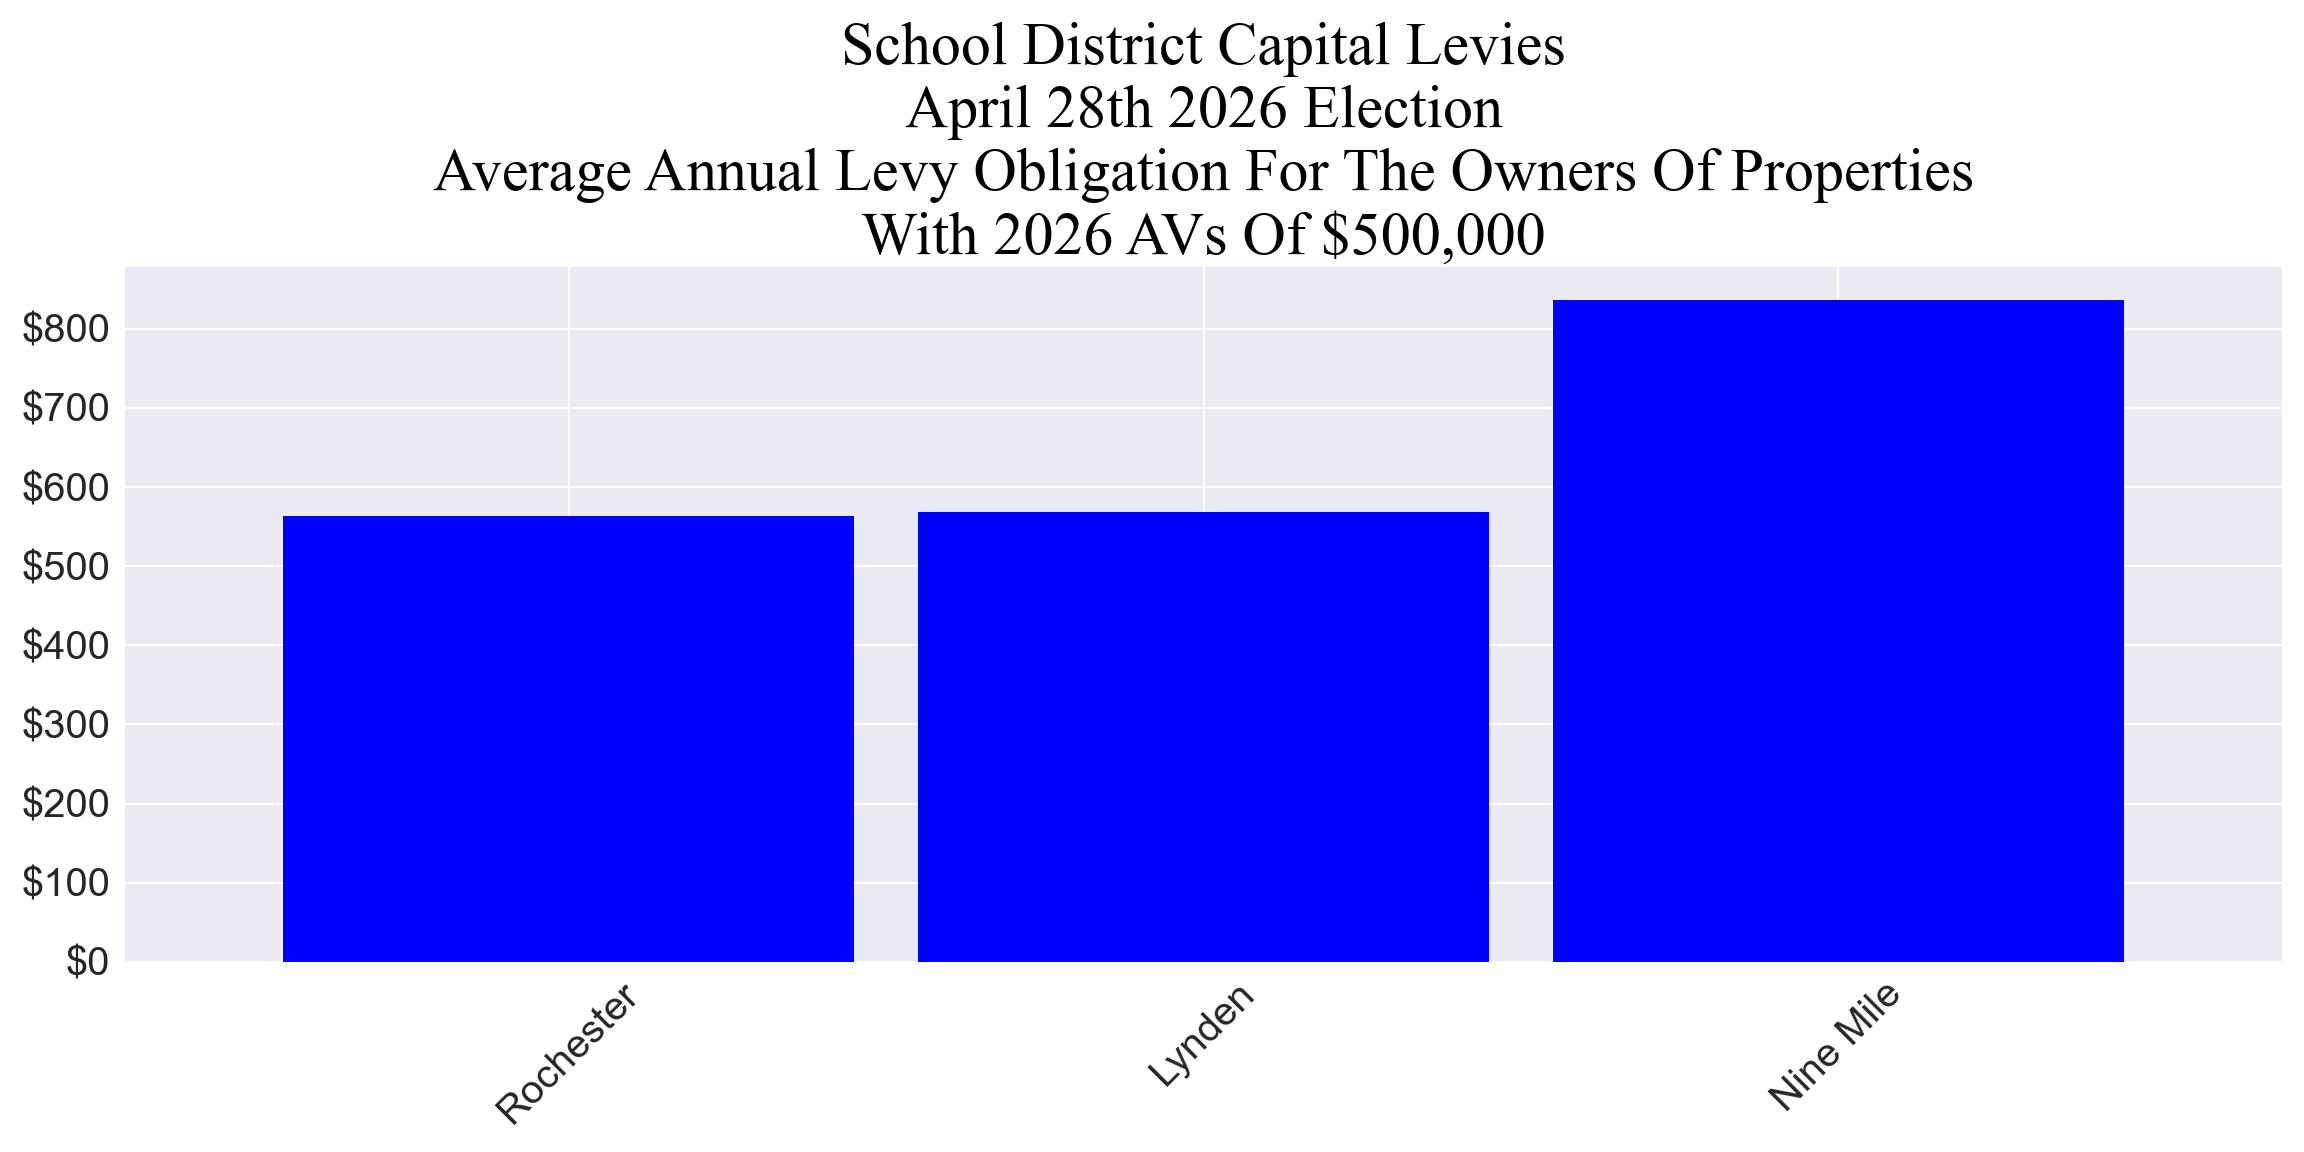
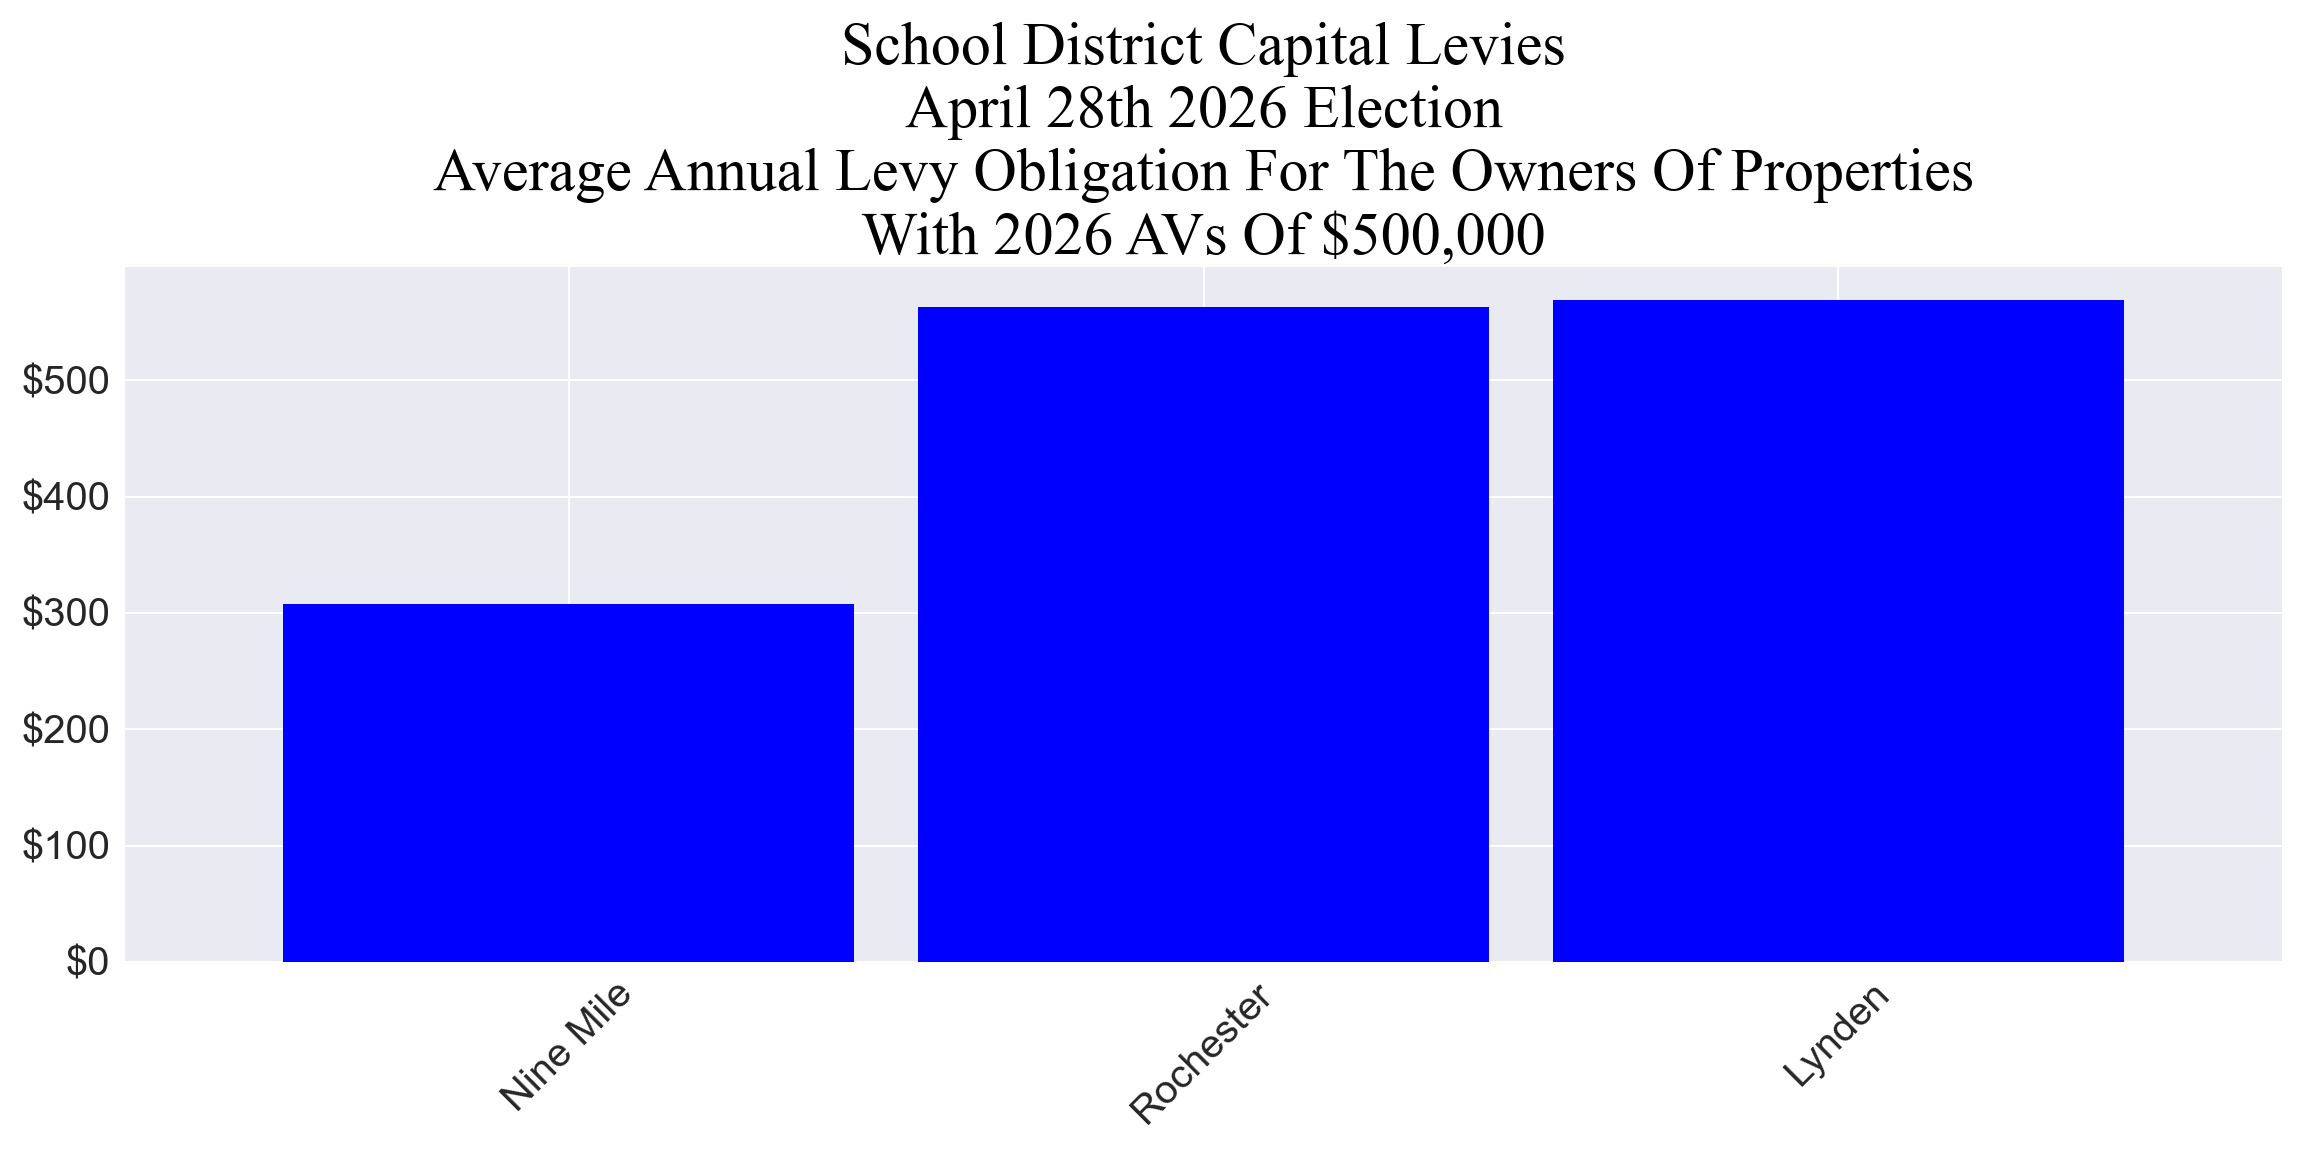
Corrected Nine Mile Falls SD charts

diff --git a/_includes/cost_estimates/20260428/NineMileCapitalLevyTable_20260428.html b/_includes/cost_estimates/20260428/NineMileCapitalLevyTable_20260428.html
@@ -15,8 +15,8 @@ table, th, td {
 	<!-- var chart; -->
 	var dataParcel;
 	
-	totalLevyAV = 739957154;
-	sampleParcelAV = 650000;
+	totalLevyAV = 2010526069;
+	sampleParcelAV = 600000;
 	sampleParcelAVMin = 100000;
 	sampleParcelAVMax = 2000000;
 	totalLevyCost = 6189275;
@@ -66,12 +66,12 @@ table, th, td {
 		data.addColumn('number', 'Example Property\'s POF Change');
 
 		data.addRows([
-				['2026', 0, 739957154, 0.0, 0, 0, 0.0, 0, 0, 0, 0.0, 0.0, 0],
-			['2027', 1189391, 739957154, 0.0, 0, 0, 0.0, 0, 0, 0, 0.0, 0.0, 0],
-			['2028', 1213143, 739957154, 0.0, 0, 0, 0.0, 0, 0, 0, 0.0, 0.0, 0],
-			['2029', 1237371, 739957154, 0.0, 0, 0, 0.0, 0, 0, 0, 0.0, 0.0, 0],
-			['2030', 1262082, 739957154, 0.0, 0, 0, 0.0, 0, 0, 0, 0.0, 0.0, 0],
-			['2031', 1287288, 739957154, 0.0, 0, 0, 0.0, 0, 0, 0, 0.0, 0.0, 0],
+				['2026', 0, 2010526069, 0.0, 0, 0, 0.0, 0, 0, 0, 0.0, 0.0, 0],
+			['2027', 1189391, 2010526069, 0.0, 0, 0, 0.0, 0, 0, 0, 0.0, 0.0, 0],
+			['2028', 1213143, 2010526069, 0.0, 0, 0, 0.0, 0, 0, 0, 0.0, 0.0, 0],
+			['2029', 1237371, 2010526069, 0.0, 0, 0, 0.0, 0, 0, 0, 0.0, 0.0, 0],
+			['2030', 1262082, 2010526069, 0.0, 0, 0, 0.0, 0, 0, 0, 0.0, 0.0, 0],
+			['2031', 1287288, 2010526069, 0.0, 0, 0, 0.0, 0, 0, 0, 0.0, 0.0, 0],
 
 		]);
 		

diff --git a/_includes/cost_estimates/20260428/NineMile_Capital_20260428_Enhanced.html b/_includes/cost_estimates/20260428/NineMile_Capital_20260428_Enhanced.html
@@ -10,8 +10,8 @@
 	var chart;
 	var dataParcel;
 	
-	totalLevyAV = 739957154;
-	sampleParcelAV = 650000;
+	totalLevyAV = 2010526069;
+	sampleParcelAV = 600000;
 	sampleParcelAVMin = 100000;
 	sampleParcelAVMax = 2000000;
 	totalLevyCost = 6189275;
